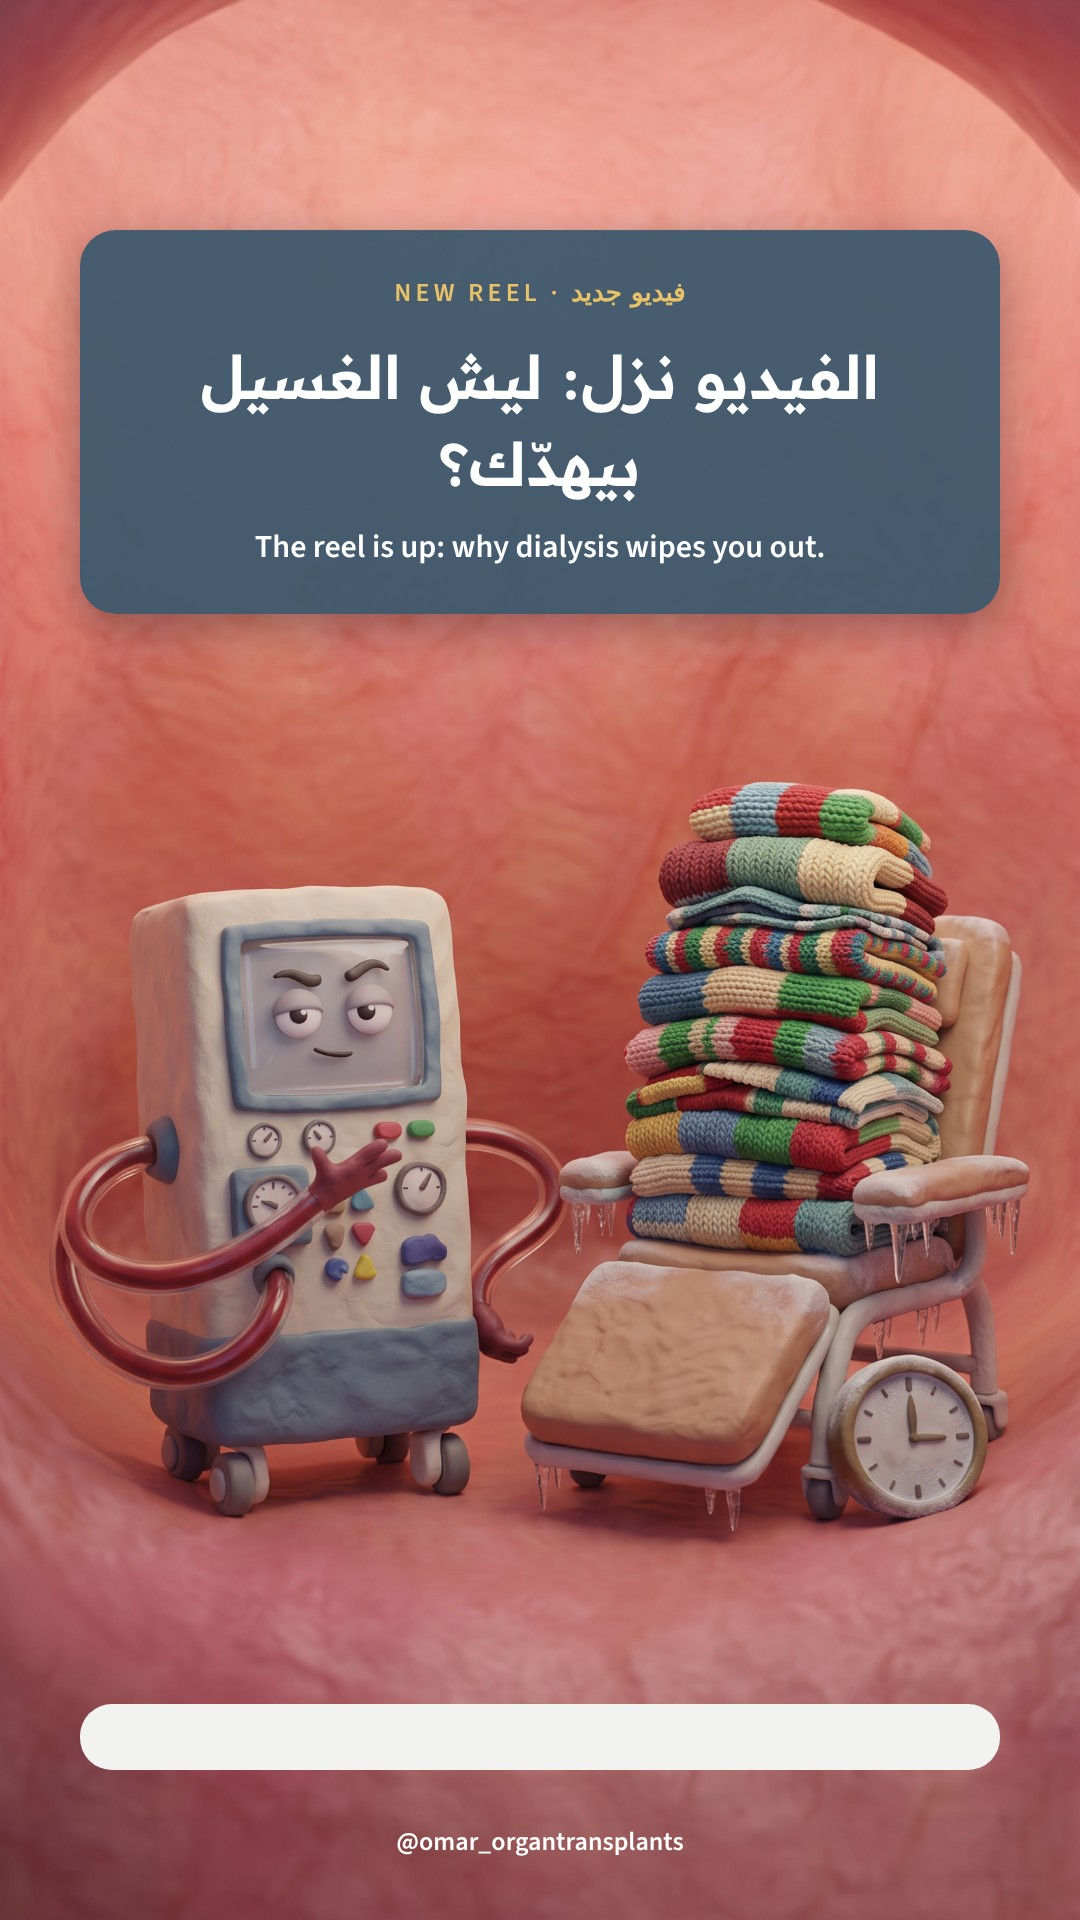
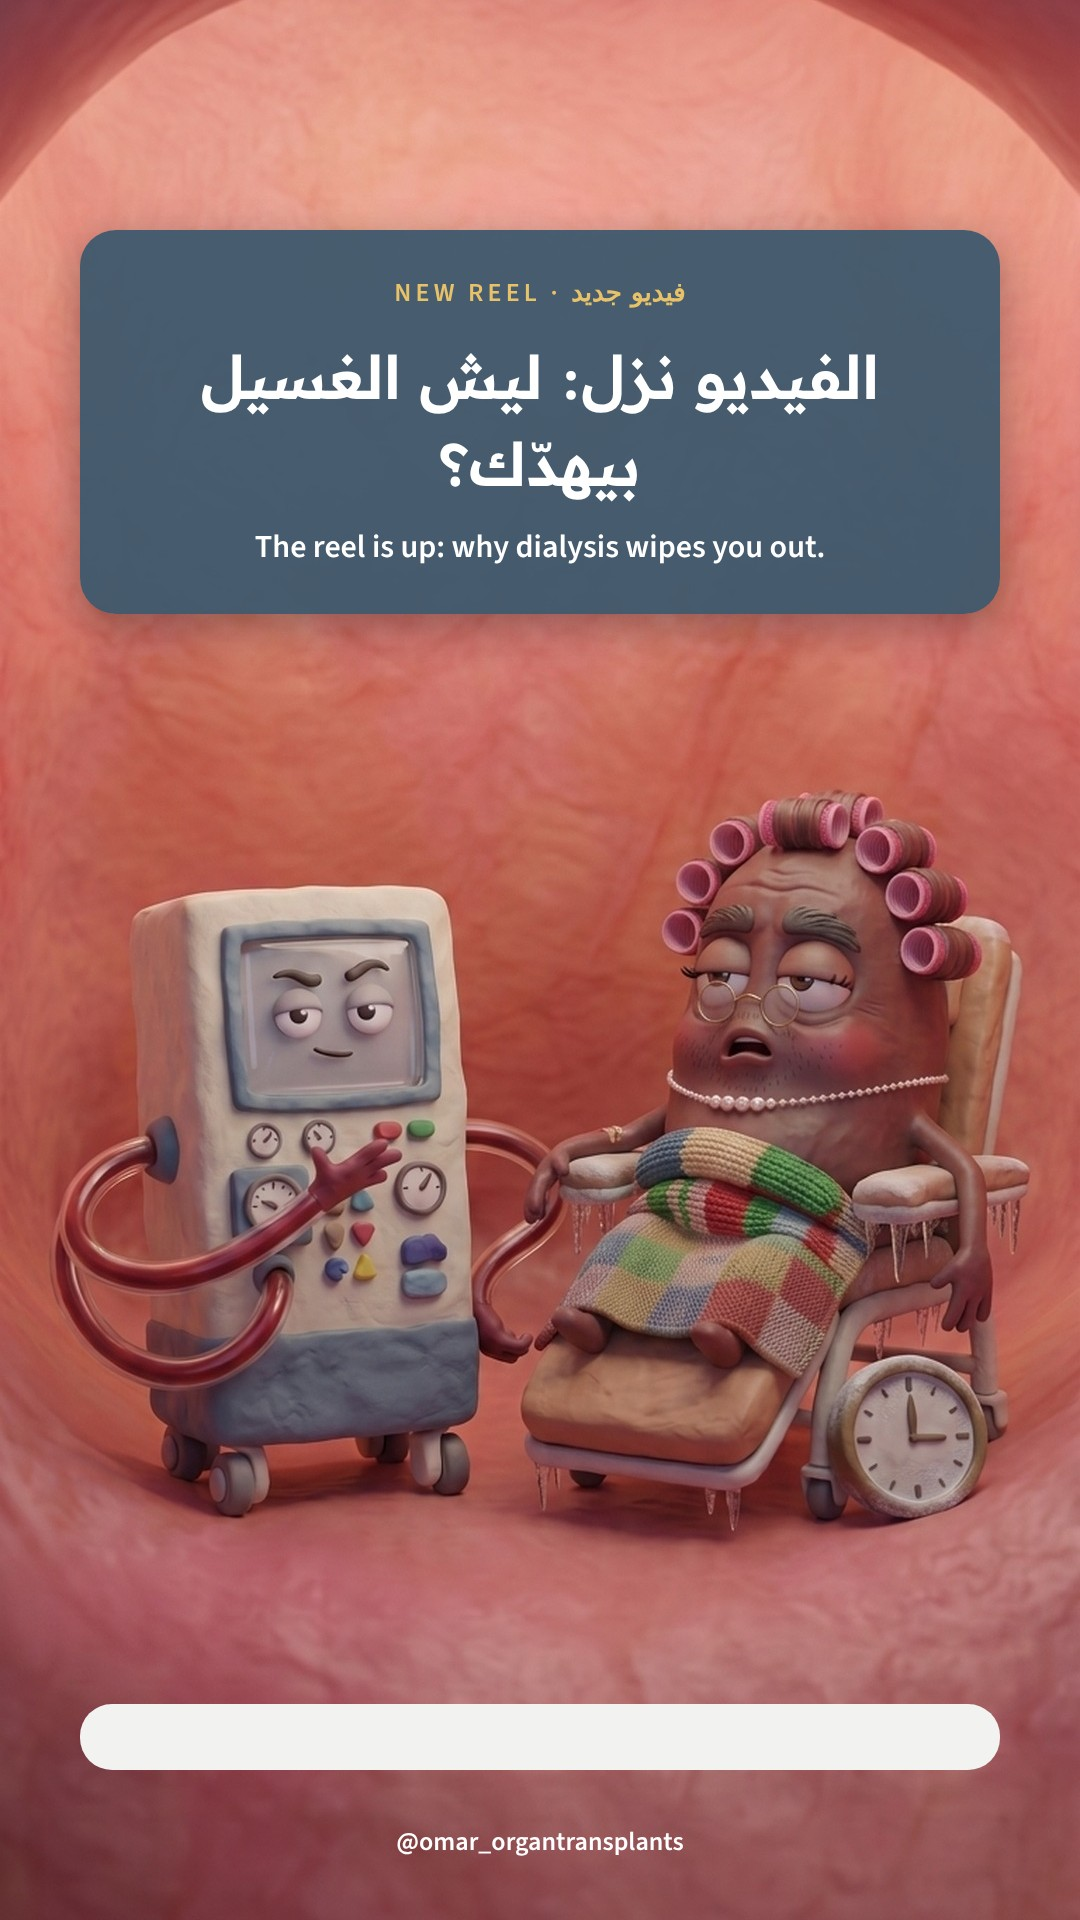
D1128b re-rendered with Wadad tired in the dialysis chair (scenes/wadad_chair.jpg, Omar's Nano Banana image, 21 Nov)
Claude-Session: https://claude.ai/code/session_015KYtjG5w6wtRPyUS2HNidM

Changed region(s): [[0.4583, 0.4062, 0.9167, 0.75]]

diff --git a/IMAGES.md b/IMAGES.md
@@ -39,6 +39,7 @@ Every image, what it shows, and when to use it. Check this before choosing an im
 | e5_signal.png | Aunties sending a sparkly signal |
 | e6_chair.png | Dialysis machine next to the chair and a stack of blankets |
 | e6_sulk.png | Machine sulking under a rain cloud, new kidney beside it |
+| wadad_chair.jpg | Wadad (curlers) slumped tired in the dialysis chair under a blanket, machine connected to her arm (Omar, Nano Banana, 21 Nov) |
 | e7_heart.png | Banana and heart arguing |
 | e7_hug.png | New kidney hugging the banana |
 | e7_shock.png | Banana shocked under a spotlight |
